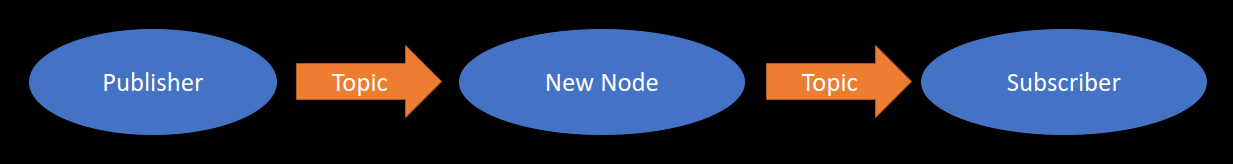
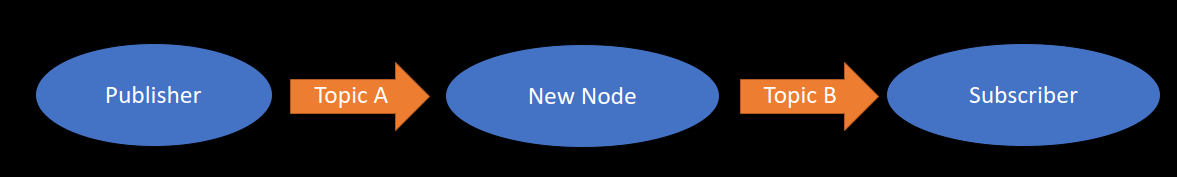
lab2: updates to lab 2 notes

diff --git a/lab_sessions/lab2/lab.md b/lab_sessions/lab2/lab.md
@@ -14,8 +14,9 @@ It will be in a short-form open-ended answer format, and concepts covered will b
 **Readings**
 1. [ROS - Understanding Nodes](http://wiki.ros.org/ROS/Tutorials/UnderstandingNodes)
 2. [ROS - Understanding Topics](http://wiki.ros.org/ROS/Tutorials/UnderstandingTopics)
-3. [Linux - Ifconfig](https://www.computerhope.com/unix/uifconfi.htm)
-4. [Python - Basics Tutorial](https://www.tutorialspoint.com/python/index.htm)
+3. [ROS - Launch files](http://wiki.ros.org/roslaunch/XML#Minimal_Example)
+4. [Linux - Ifconfig](https://www.computerhope.com/unix/uifconfi.htm)
+5. [Python - Basics Tutorial](https://www.tutorialspoint.com/python/index.htm)
 
 ## Setup
 * Be in your teams of 5
@@ -114,6 +115,7 @@ Gazebo is a simulator that enables us to simulate a close representation of the 
    2. Once the simulation has been started, view the resulting ROS network using rqt_graph
       1. **Task 1a**{: .label .label-blue}Take a screenshot of the network graph, include this screenshot in your report.
       2. **Task 1b**{: .label .label-blue}From this screenshot, which nodes publishes and subscribes to the "/cmd_vel" topic?
+      3. **Task 1c**{: .label .label-blue}What is the message data format used on this "/cmd_vel" topic?
 
 ### Tele-operation
 
@@ -121,31 +123,35 @@ The limo_base package contains the ROS package that controls and drives the limo
 
 In the following task, we will attempt to control the limo using your own computer. To achieve this, we will need to run the limo_base control node on the limo itself, and make our own computer publish to the /cmd_vel topic within the same ROS network.
 
+NOTE: Your limo's has already been setup with all necessary ROS packages for this course within a catkin workspace. The workspace can be found under ~/agilex_ws. For the following task however, you will use the catkin workspace you have made earlier.
+
 *Do coordinate with your team members when attempting to do this task as to avoid situations where multiple members are attempting to control the robot*
 
 **Task 2: Tele-operating your limo**{: .label .label-green}
 
-   1. Connect your computer to the limo's wifi.
+   1. Connect your computer and the limo to a common wifi.
    2. With a keyboard attached to limo's computer, find the ip address of the nano
       1.  **Task 2a**{: .label .label-blue}What's the nano's ip address?
    3. After finding the ip address
-      1. add the lines below to the nano's bashrc file, replacing with the ip address you have found and source bashrc
+      1. add the lines below to the nano's bashrc file, replacing with the ip address (e.g. http://192.168.111.111:11311) you have found and source bashrc
         ```bash
         export ROS_MASTER_URI=http://<nano ip address>:11311
         export ROS_HOSTNAME=<nano ip address>
         ```
    4. Run the limo_base_node on the jetson nano computer.
    5. On your computer, find the ip address of your computer.
-      1. add the lines below your own bashrc file, be mindful of which ip address you use and source the neew bashrc file
+      1.  **Task 2b**{: .label .label-blue}What's your computer's ip address?
+      2. add the lines below your own bashrc file, be mindful of which ip address you use and source the new bashrc file
         ```bash
         export ROS_MASTER_URI=http://<nano ip address>:11311
         export ROS_HOSTNAME=<your own ip address>
         ```
    6. On your computer run the teleop twist keyboard node to publish to /cmd_vel
    7. Once the teleop twist keyboard has been started, view the resulting ROS network using rqt_graph
-      1. **Task 2b**{: .label .label-blue}Take a screenshot of the network graph, include this screenshot in your report.
-      2. **Task 2c**{: .label .label-blue}Where is the ROS master node running on?
-      3. **Task 2d**{: .label .label-blue}From this screenshot and the bashrc files, can you deduce what does setting the ROS_MASTER_URI and ROS_HOSTNAME environment variables do?
+      1. **Task 2c**{: .label .label-blue}Take a screenshot of the network graph, include this screenshot in your report.
+      2. **Task 2d**{: .label .label-blue}From this screenshot, which nodes publishes and subscribes to the "/cmd_vel" topic?
+      3. **Task 2e**{: .label .label-blue}Where is the ROS master node running on?
+      4. **Task 2f**{: .label .label-blue}From this screenshot and the bashrc files, can you deduce what does setting the ROS_MASTER_URI and ROS_HOSTNAME environment variables do?
 
 ## Making our first package
 Now that we have gone through setting up, building, and running a exisitng package, we can now start making our very own custom package. This lab will cover creating the 2 most basic nodes we can have, *publishers* and *subscribers*.
@@ -164,15 +170,22 @@ Now that we have gone through setting up, building, and running a exisitng packa
 
 1. Follow the official ROS tutorial [here](http://wiki.ros.org/ROS/Tutorials/WritingPublisherSubscriber%28python%29) to create your first publisher and subscriber nodes.
 2. After creating the 2 nodes, run the 2 nodes and rqt_graph
-   1. **Task 3a**{: .label .label-blue}Take a screenshot of the network graph, include this screenshot in your report.
-   2. **Task 3b**{: .label .label-blue}What is the topic name these 2 nodes are communcating on and where is this defined?
+   1. **Task 3a**{: .label .label-blue}Take a screenshot of the ROS network graph, include this screenshot in your report.
+   2. **Task 3b**{: .label .label-blue}What is the topic name these 2 nodes are communcating on and where/how is this name defined?
    3. **Task 3c**{: .label .label-blue}What is the message data format used on this topic?
    4. **Task 3d**{: .label .label-blue}What is the frequency rate (in Hz) of publishing on this topic and how can we change this rate?
 
 **Task 4: Implementing our own node**{: .label .label-green}
 
-1. **Task 4a**{: .label .label-blue}Building on the publisher and subscriber package we just made, create a node that "intercepts" the original message, changes the content (anyway you like) and republishes this new message to a new topic. You can modify the 2 original nodes to publish and subscribe to any topic you like and the resultant network should look similar to the diagram below when all 3 nodes are running. Include a screenshot of the network when all 3 nodes are running.
+1. **Task 4a**{: .label .label-blue}Building on the publisher and subscriber package we just made, create a node that, for every new message it receives from the original publisher;
+   1. it changes the content of the received message (anyway you like)
+   2. republishes this new message to a new topic which is subscribed by the original subscriber
+
+   You can modify the 2 original nodes to publish and subscribe to any topic you like and the resultant network should look similar to the diagram below when all 3 nodes are running. Include a screenshot of the network when all 3 nodes are running.
 2. **Task 4b**{: .label .label-blue}Include this final modified package alongside your report during submission.
+3. **Task 4c**{: .label .label-blue}Briefly describe your new node.
+4. **Task 4d**{: .label .label-blue}While running all 3 nodes, what happens to the listener node's behavior when you switch off the talker node?
+5. **Task 4e**{: .label .label-blue}Create a ROS launch file to launch all 3 nodes at the same time using 1 roslaunch command.
 
 **Before**
 ![img](assets/network_before.png)
